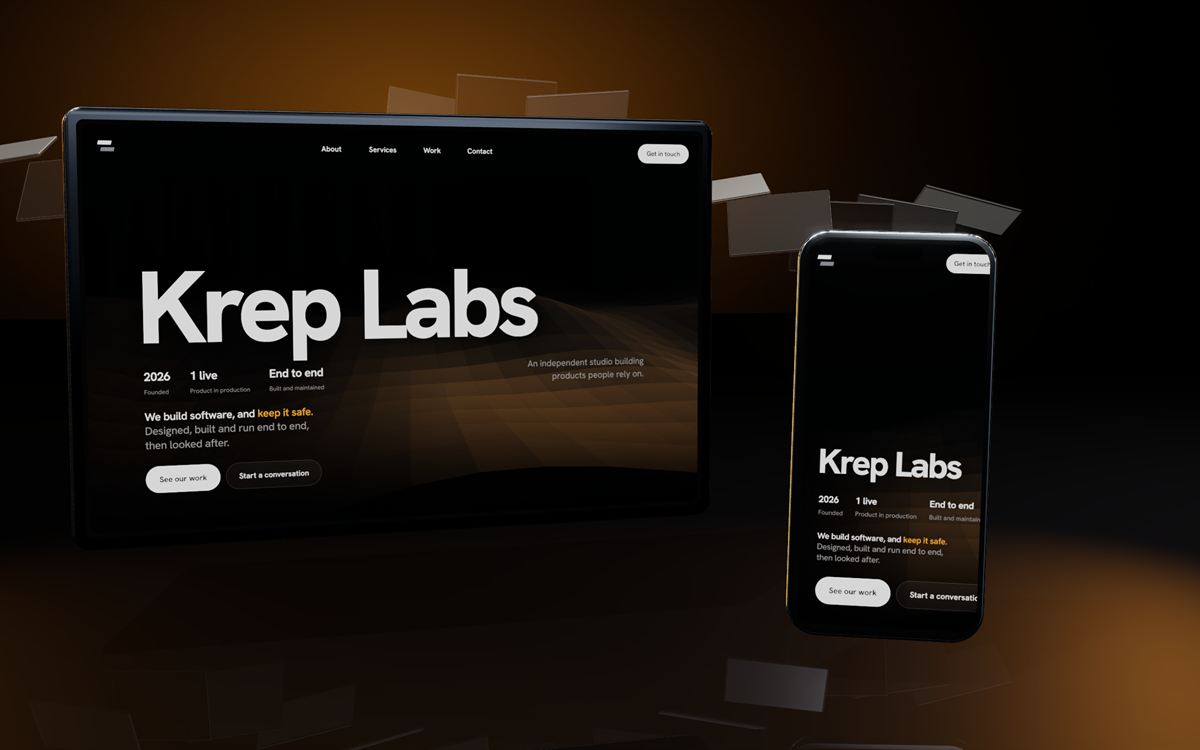
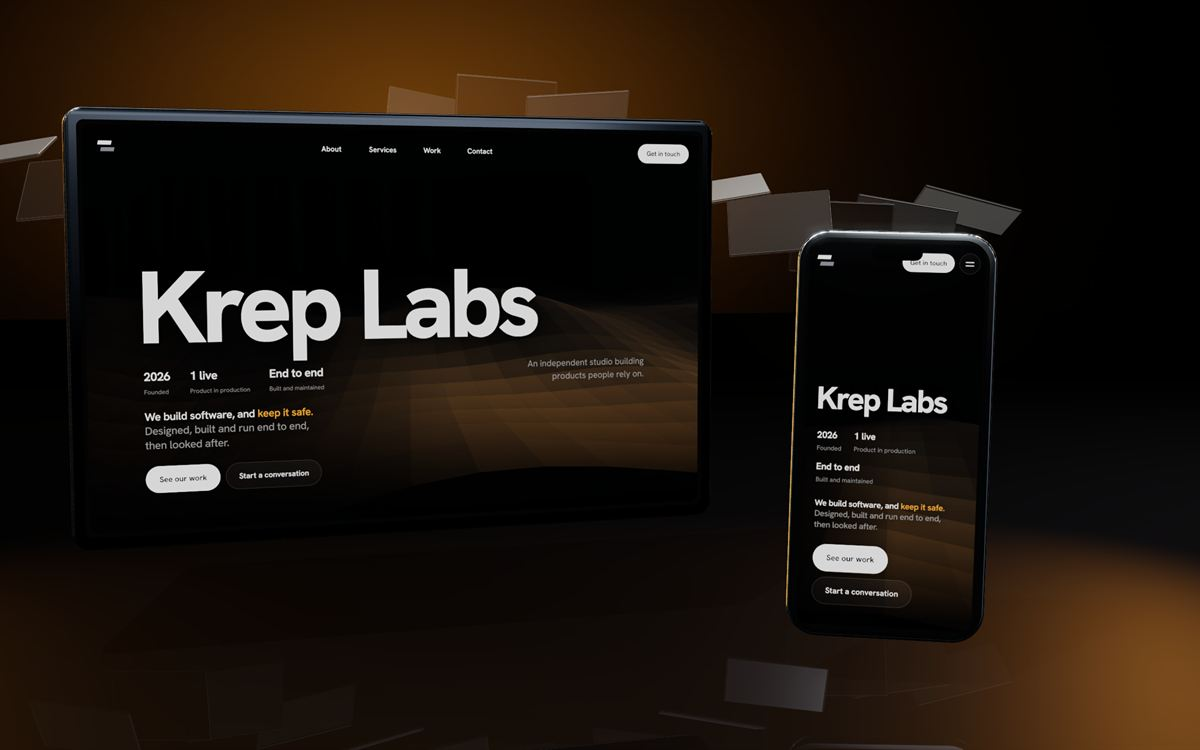
Fix Krep Labs render: real mobile layout on the phone (was desktop, squished)
Re-captured the mobile screenshot with proper device emulation so the phone
in the scene shows the stacked mobile layout. Updates the portfolio image
(v=2 cache-bust) and the profile work panel.

Changed region(s): [[0.6783, 0.5213, 0.8325, 0.828], [0.74, 0.3373, 0.8325, 0.368]]

diff --git a/index.html b/index.html
@@ -115,7 +115,7 @@ if (location.hash) history.replaceState(null, "", location.pathname + location.s
                data-bg tints the page while the project is on screen. -->
           <article class="piece" data-bg="#0b0805">
             <a class="piece-media" href="https://kreplabs.com" target="_blank" rel="noopener" aria-label="Visit Krep Labs">
-              <img src="work/kreplabs.jpg" srcset="work/kreplabs-1200.jpg 1200w, work/kreplabs.jpg 2400w" sizes="(max-width: 900px) 100vw, 60vw" alt="Krep Labs' website on a desktop screen and a phone" width="2400" height="1500" loading="lazy" decoding="async">
+              <img src="work/kreplabs.jpg?v=2" srcset="work/kreplabs-1200.jpg?v=2 1200w, work/kreplabs.jpg?v=2 2400w" sizes="(max-width: 900px) 100vw, 60vw" alt="Krep Labs' website on a desktop screen and a phone" width="2400" height="1500" loading="lazy" decoding="async">
               <span class="piece-num" data-piece-num>01</span>
               <span class="piece-cta">Visit site <svg viewBox="0 0 24 24" fill="none" stroke="currentColor" stroke-width="1.8" stroke-linecap="round" stroke-linejoin="round" aria-hidden="true"><path d="M7 17 17 7M8 7h9v9"/></svg></span>
             </a>
